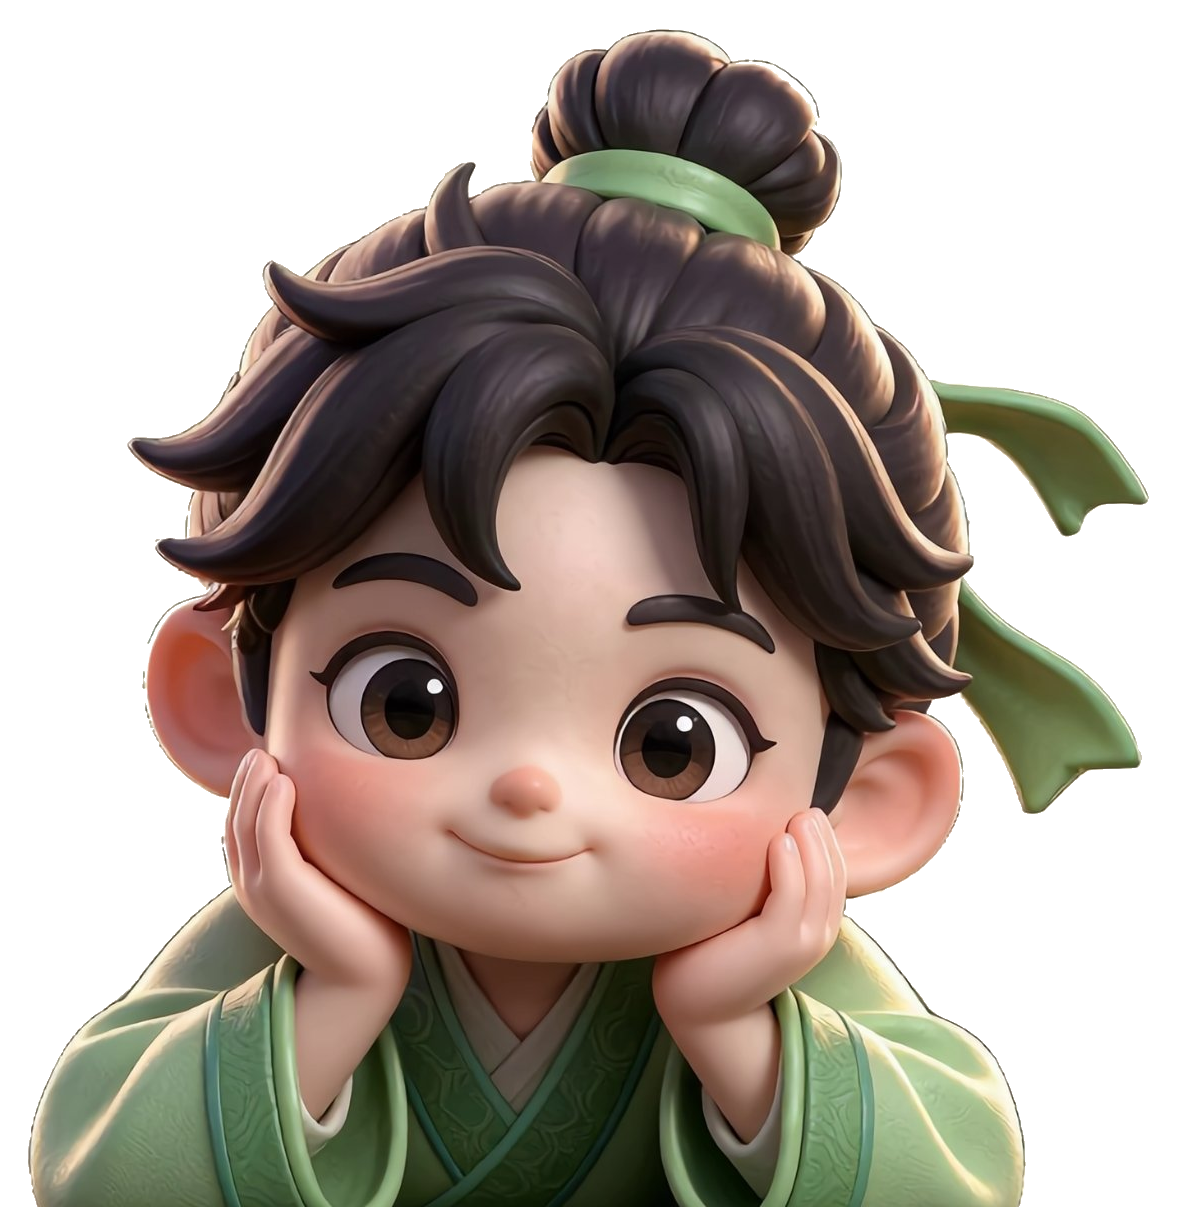
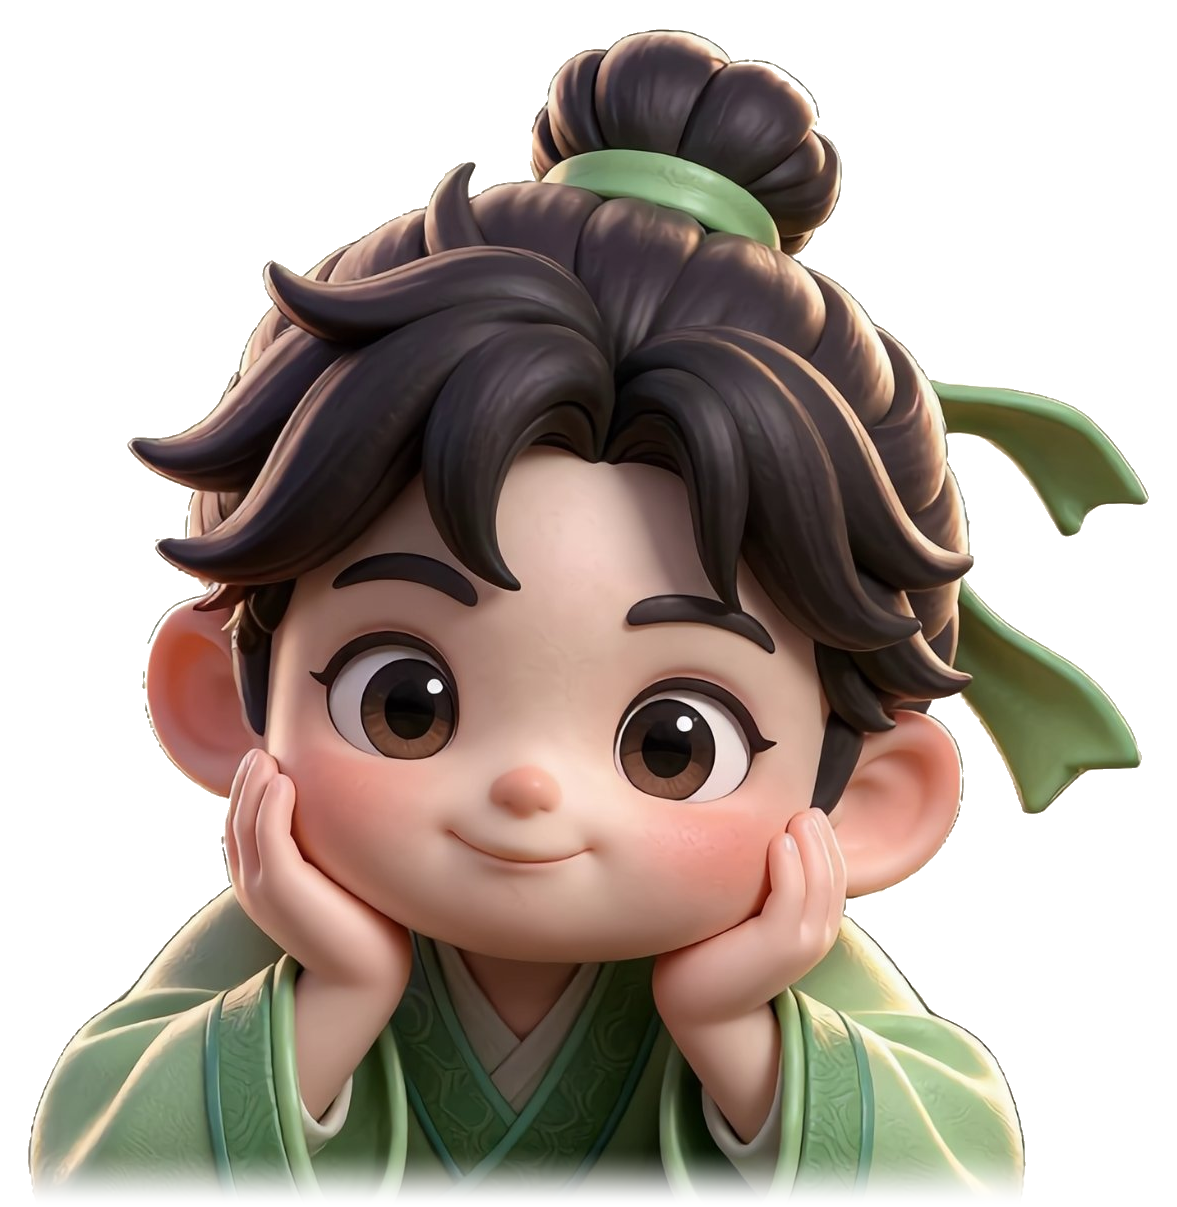
style(header): 趴姿药童微调放大至165px并柔化袖子底边

Changed region(s): [[0.0306, 0.9503, 0.887, 1.0]]

diff --git a/index.html b/index.html
@@ -83,10 +83,10 @@ html[data-season="冬"] .seal-stamp::after{background-image:url("assets/logo-acc
 .hd-slogan .hd-ai{font-family:"Ma Shan Zheng",cursive;font-weight:400;font-size:1.06em;letter-spacing:.02em;margin-right:.18em;text-shadow:0 1px 0 rgba(251,243,228,.55)}
 .hd-slogan-sub{margin-top:7px;font-family:"Noto Serif SC",serif;font-size:13px;letter-spacing:1px;color:var(--ink2)}
 .hd-right{flex:none;z-index:1;display:flex;align-items:flex-end;justify-content:center;margin-left:8px}
-.hd-right img{height:150px;width:auto;display:block;margin-bottom:8px;filter:drop-shadow(0 10px 14px rgba(43,43,38,.22))}
-@media(max-width:1000px){.seal-stamp{width:180px;height:180px}.hd-right img{height:128px}.hd-slogan{font-size:26px}}
-@media(max-width:720px){.hd-inner{padding:18px 12px 16px}.seal-stamp{width:150px;height:150px}.hd-right img{height:108px}.hd-slogan{font-size:22px}.hd-slogan-sub{font-size:12px}}
-@media(max-width:560px){.seal-stamp{width:120px;height:120px}.hd-right img{height:88px}.hd-slogan{font-size:19px}.hd-mid{flex-basis:100%;margin-top:4px}}
+.hd-right img{height:165px;width:auto;display:block;margin-bottom:8px;filter:drop-shadow(0 10px 14px rgba(43,43,38,.22))}
+@media(max-width:1000px){.seal-stamp{width:180px;height:180px}.hd-right img{height:140px}.hd-slogan{font-size:26px}}
+@media(max-width:720px){.hd-inner{padding:18px 12px 16px}.seal-stamp{width:150px;height:150px}.hd-right img{height:118px}.hd-slogan{font-size:22px}.hd-slogan-sub{font-size:12px}}
+@media(max-width:560px){.seal-stamp{width:120px;height:120px}.hd-right img{height:96px}.hd-slogan{font-size:19px}.hd-mid{flex-basis:100%;margin-top:4px}}
 
 /* ===== 导航 ===== */
 nav{width:100%;border-bottom:1px solid var(--line);position:sticky;top:0;background:linear-gradient(var(--bg) 82%,transparent);z-index:10;backdrop-filter:blur(4px)}
